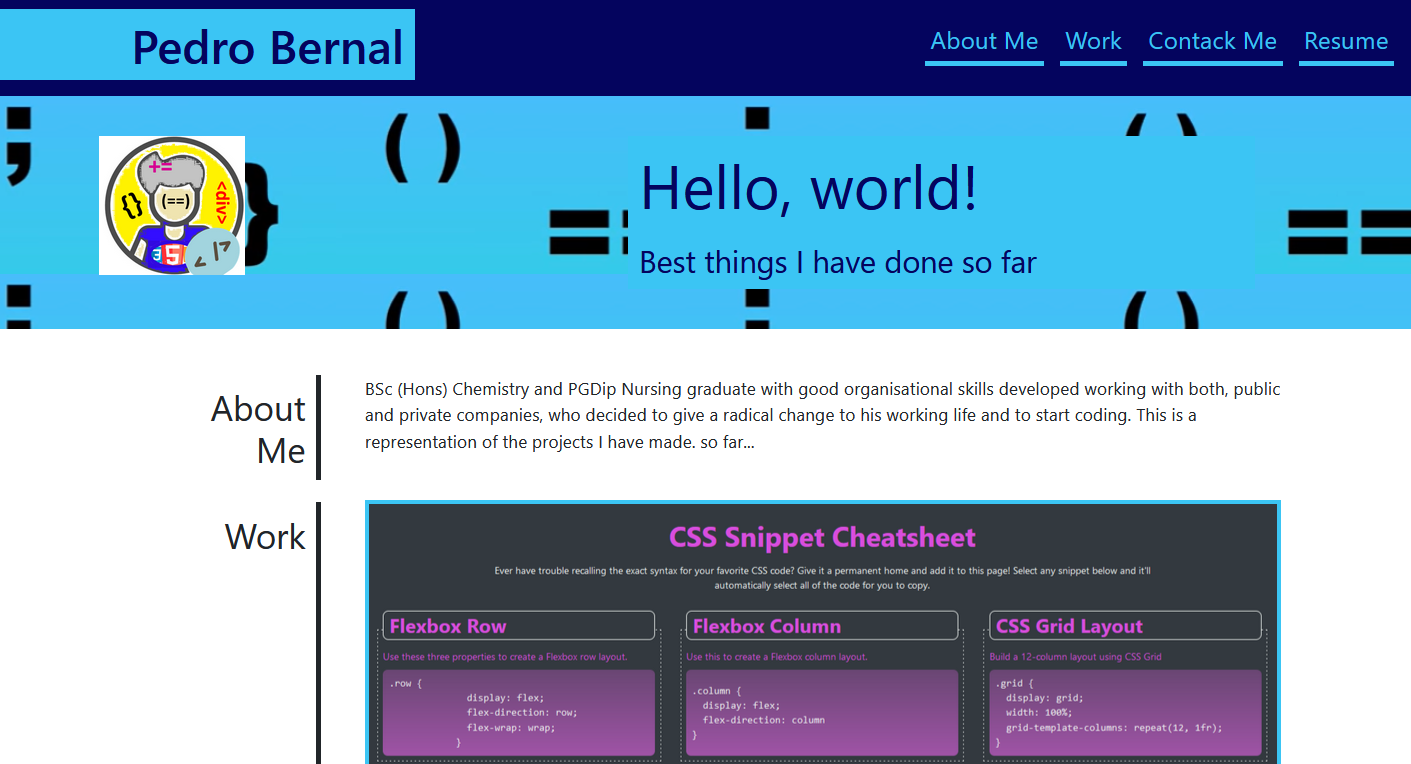
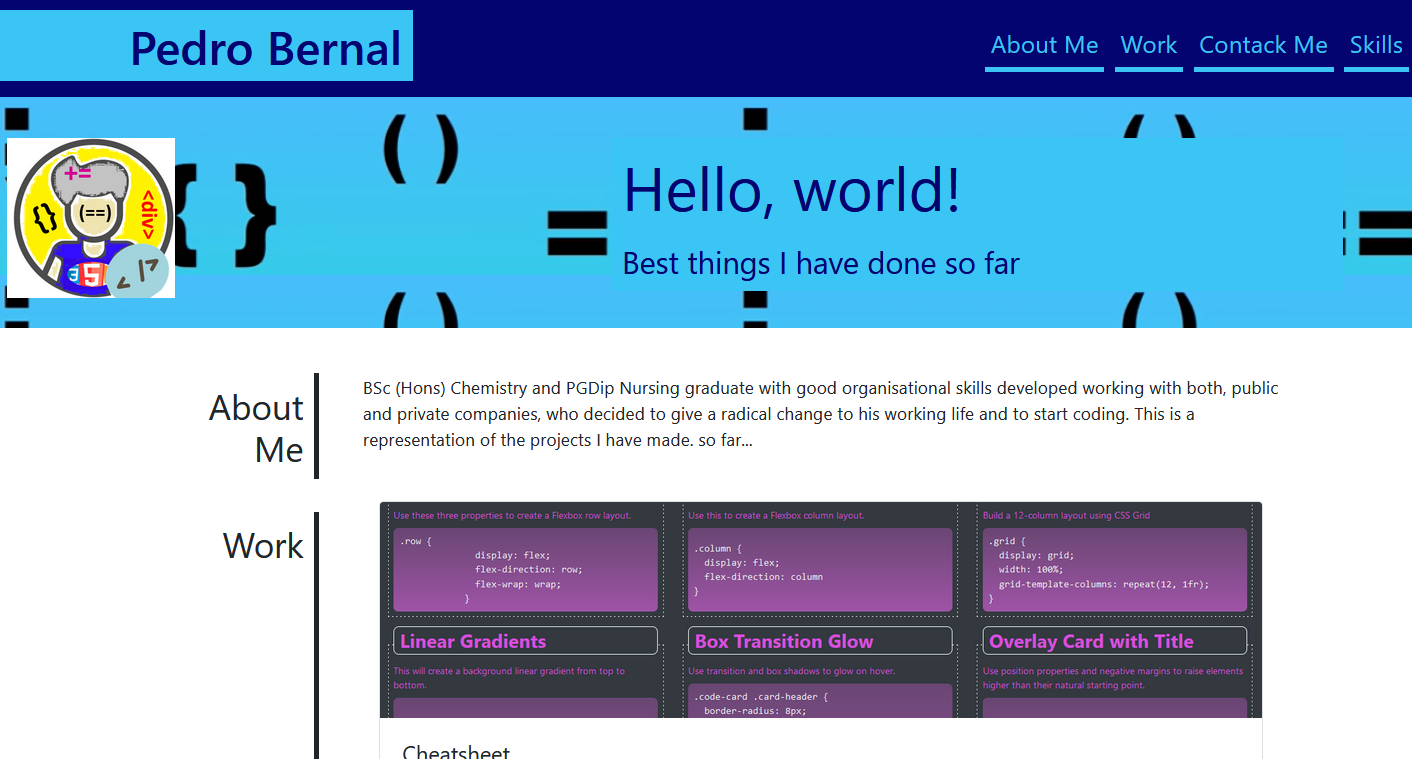
Add cards to body of portfolio

diff --git a/index.html b/index.html
@@ -64,27 +64,69 @@
       <div class="col-md-3">
         <h2 id="work">Work</h2>
       </div>
-      <div class="work-items col-md-8">
-        <div id="cheatsheet" class="flex-item">
-          <h3 class="heading">Cheatsheet<br /><small>HTML/CSS</small></h3>
-        </div>
 
-        <div id="furn-shop" class="flex-item">
-          <h3 class="heading">Furniture shop<br /><small>HTML/CSS</small></h3>
-        </div>
+      <section class="work-items col-md-8">
+        <div class="work-items col-md-12">
+          <div class="card" style="width: 100%;">
+            <img src="images/css-cheatsheet.png" class="card-img-top" alt="Cheatsheet">
+            <div class="card-body">
+              <h5 class="card-title">Cheatsheet</h5>
+              <p class="card-text">Colection of cards to remind you of the fundamentals of CSS</p>
+              <a href="https://pedrobe9.github.io/css-snippet-cheatsheet/" class="btn btn-primary">Go to the
+                application</a>
+            </div>
+          </div>
 
-        <div id="led-wall" class="flex-item">
-          <h3 class="heading">Led Wall</h3>
-        </div>
+          <div class="row">
+            <div class="work-items col-md-6 d-flex align-items-stretch">
+              <div class="card" style="width: 100%;">
+                <img src="images/project3-1.png" class="card-img-top card-img-second" alt="Portfolio">
+                <div class="card-body">
+                  <h5 class="card-title">Portfolio</h5>
+                  <p class="card-text">Appkication showing the portfolio containing the projects I have made so far.</p>
+                  <a href="https://pedrobe9.github.io/pedrobe-portfolio/" class="btn btn-primary">Go to the
+                    application</a>
+                </div>
+              </div>
+            </div>
+            <div class="work-items col-md-6 d-flex align-items-stretch">
+              <div class="card" style="width: 100%;">
+                <img src="images/02-portfolio-1.jpg" class="card-img-top card-img-second" alt="Led wall">
+                <div class="card-body">
+                  <h5 class="card-title">Led Wall</h5>
+                  <p class="card-text">Random picture used as place holder for a future appkication.</p>
+                  <a href="#" class="btn btn-primary">Go somewhere</a>
+                </div>
+              </div>
+            </div>
+          </div>
 
-        <div id="calculator" class="flex-item">
-          <h3 class="heading">Calculator</h3>
-        </div>
+          <div class="row">
+            <div class="work-items col-md-6 d-flex align-items-stretch">
+              <div class="card" style="width: 100%;">
+                <img src="images/02-portfolio-2.jpg" class="card-img-top card-img-second" alt="Calculator">
+                <div class="card-body">
+                  <h5 class="card-title">Calculator</h5>
+                  <p class="card-text">Random picture used as place holder for a future appkication.</p>
+                  <a href="#" class="btn btn-primary">Go somewhere</a>
+                </div>
+              </div>
+            </div>
+            <div class="work-items col-md-6 d-flex align-items-stretch">
+              <div class="card" style="width: 100%;">
+                <img src="images/02-run-buddy.jpg" class="card-img-top card-img-second" alt="Run-buddy">
+                <div class="card-body">
+                  <h5 class="card-title">Run-buddy</h5>
+                  <p class="card-text">Some quick example text to build on the card title and make up the bulk of the
+                    card's content.</p>
+                  <a href="#" class="btn btn-primary">Go somewhere</a>
+                </div>
+              </div>
+            </div>
+          </div>
 
-        <div id="run-buddy" class="flex-item">
-          <h3 class="heading">Run Buddy</h3>
         </div>
-      </div>
+      </section>
       <div class="col-md-1">
       </div>
     </section>

diff --git a/css/style.css b/css/style.css
@@ -134,46 +134,20 @@ nav a:hover {
   width: 50%;
 }
 
-/*First item in portfolio bigger size*/
-.flex-item:first-child {
-  min-height: 400px;
-  flex-basis: 100%;
-}
-
 .flex-item:hover {
   opacity: 0.7;
 }
 
-#cheatsheet {
-  background-image: url("../images/css-cheatsheet.png");
-  border: var(--pic-border);
-  background-size: cover;
+.row {
+  margin-top: 12px;
 }
 
-#furn-shop {
-  background-image: url("../images/furn-shop.png");
-  border: var(--pic-border);
-  background-size: cover;
+/*Taken from: https://stackoverflow.com/questions/37287153/how-to-get-images-in-bootstraps-card-to-be-the-same-height-width*/
+.card-img-second {
+  width: 100%;
+  height: 15vw;
+  object-fit: cover;
 }
-
-#led-wall {
-  background-image: url("../images/02-portfolio-1.jpg");
-  border: var(--pic-border);
-  background-size: cover;
-}
-
-#calculator {
-  background-image: url("../images/02-portfolio-2.jpg");
-  border: var(--pic-border);
-  background-size: cover;
-}
-
-#run-buddy {
-  background-image: url("../images/02-run-buddy.jpg");
-  border: var(--pic-border);
-  background-size: cover;
-}
-
 
 
 .heading {
